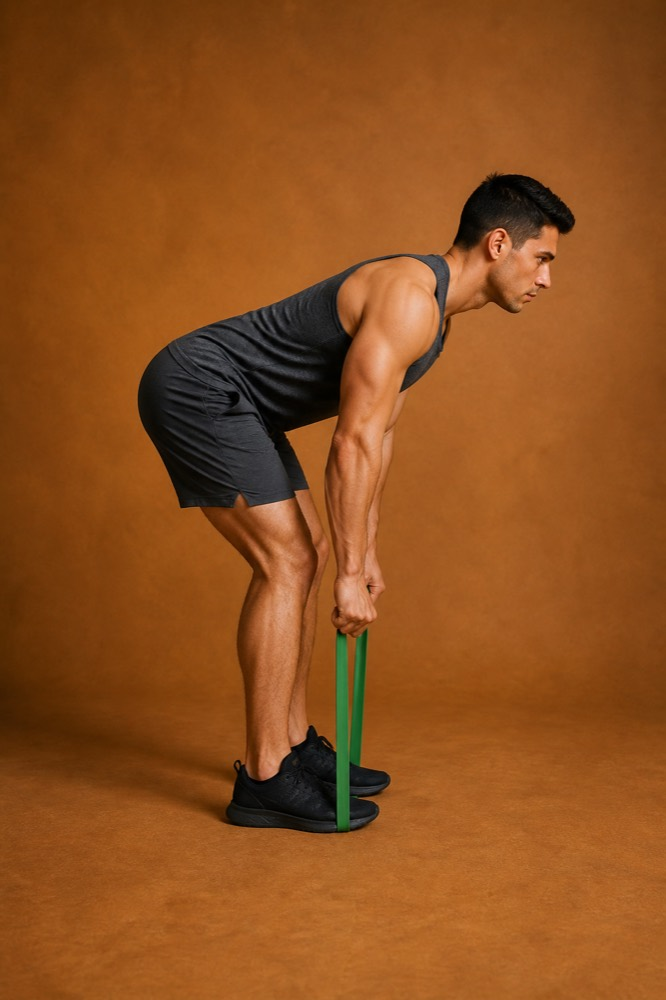
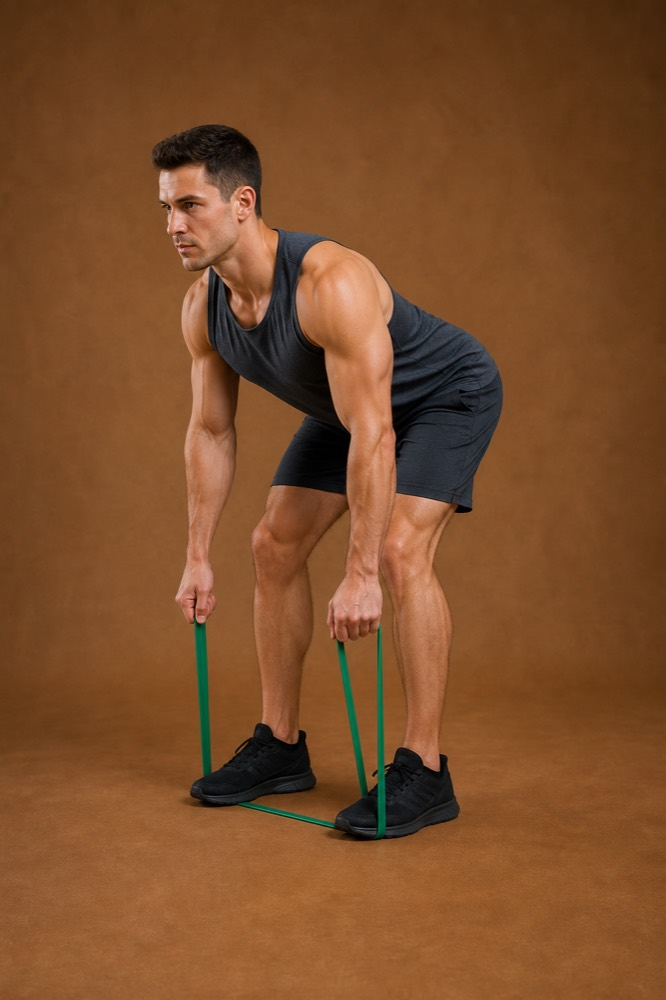
修正：圖片改 contain 不裁頭腳；重生後三角提拉為正確動作（帶子踩腳下、雙臂展開）

diff --git a/index.html b/index.html
@@ -31,7 +31,7 @@
   .card{background:var(--card);border:1px solid var(--line);border-radius:14px;overflow:hidden;}
   .frames{display:flex;align-items:center;gap:6px;padding:10px;background:#efe7db;}
   .frames figure{flex:1 1 0;min-width:0;position:relative;}
-  .frames img{width:100%;aspect-ratio:4/3;object-fit:cover;border-radius:8px;background:#ddd;display:block;}
+  .frames img{width:100%;aspect-ratio:3/4;object-fit:contain;border-radius:8px;background:#e6ddcf;display:block;}
   .frames figcaption{position:absolute;left:6px;bottom:6px;font-size:11px;font-weight:700;
     color:#fff;background:rgba(26,21,18,.72);padding:2px 8px;border-radius:6px;letter-spacing:.5px;}
   .frames .arrow{color:var(--amber2);font-size:22px;font-weight:700;flex:0 0 auto;}
